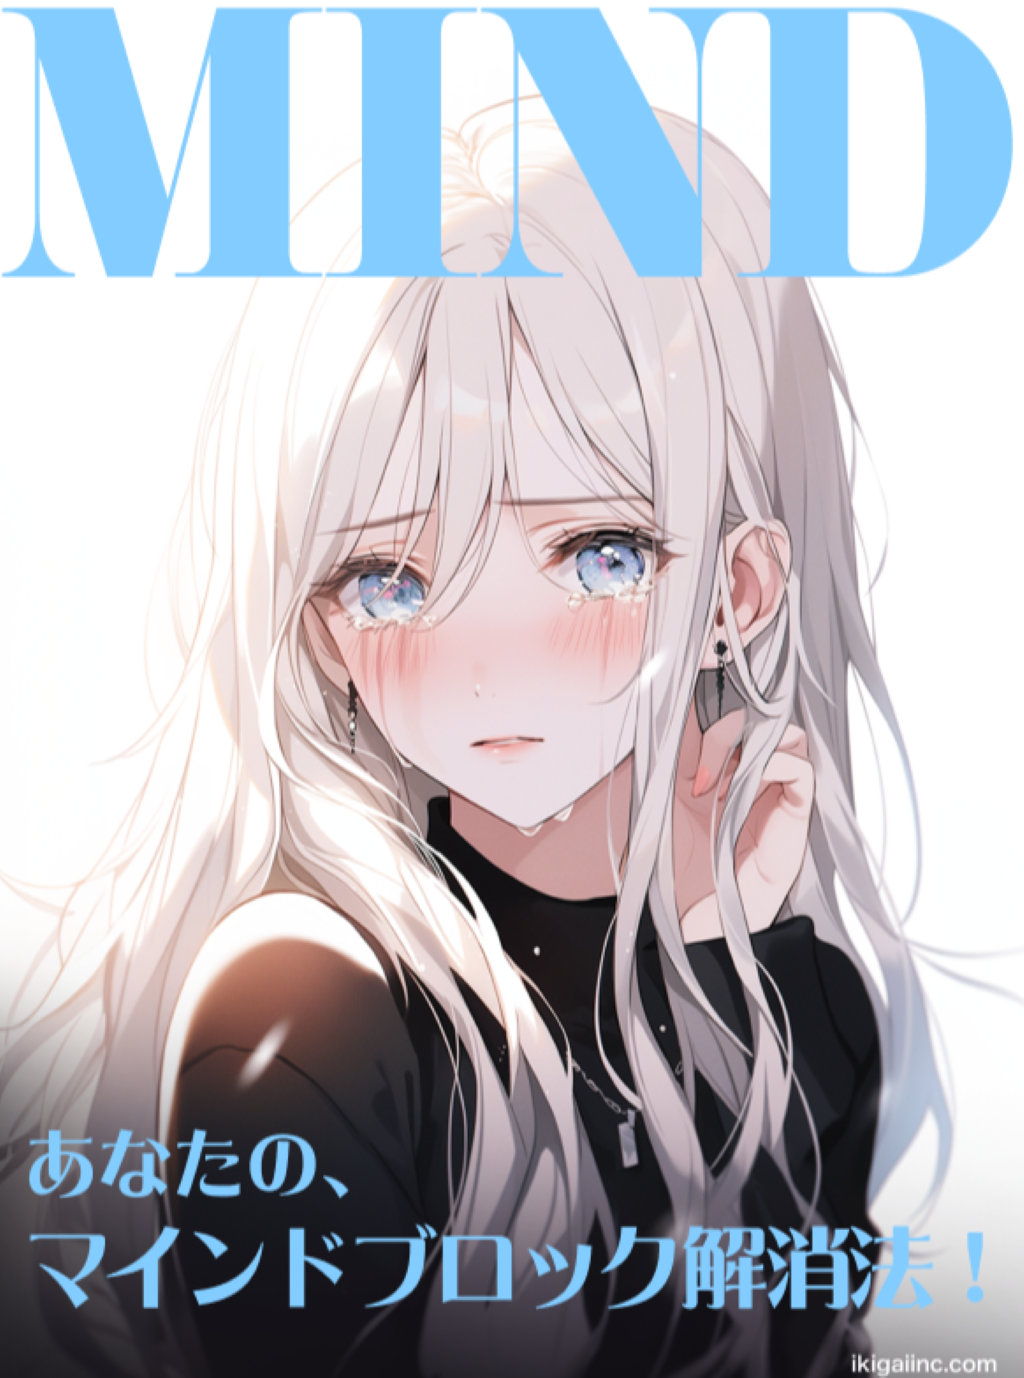
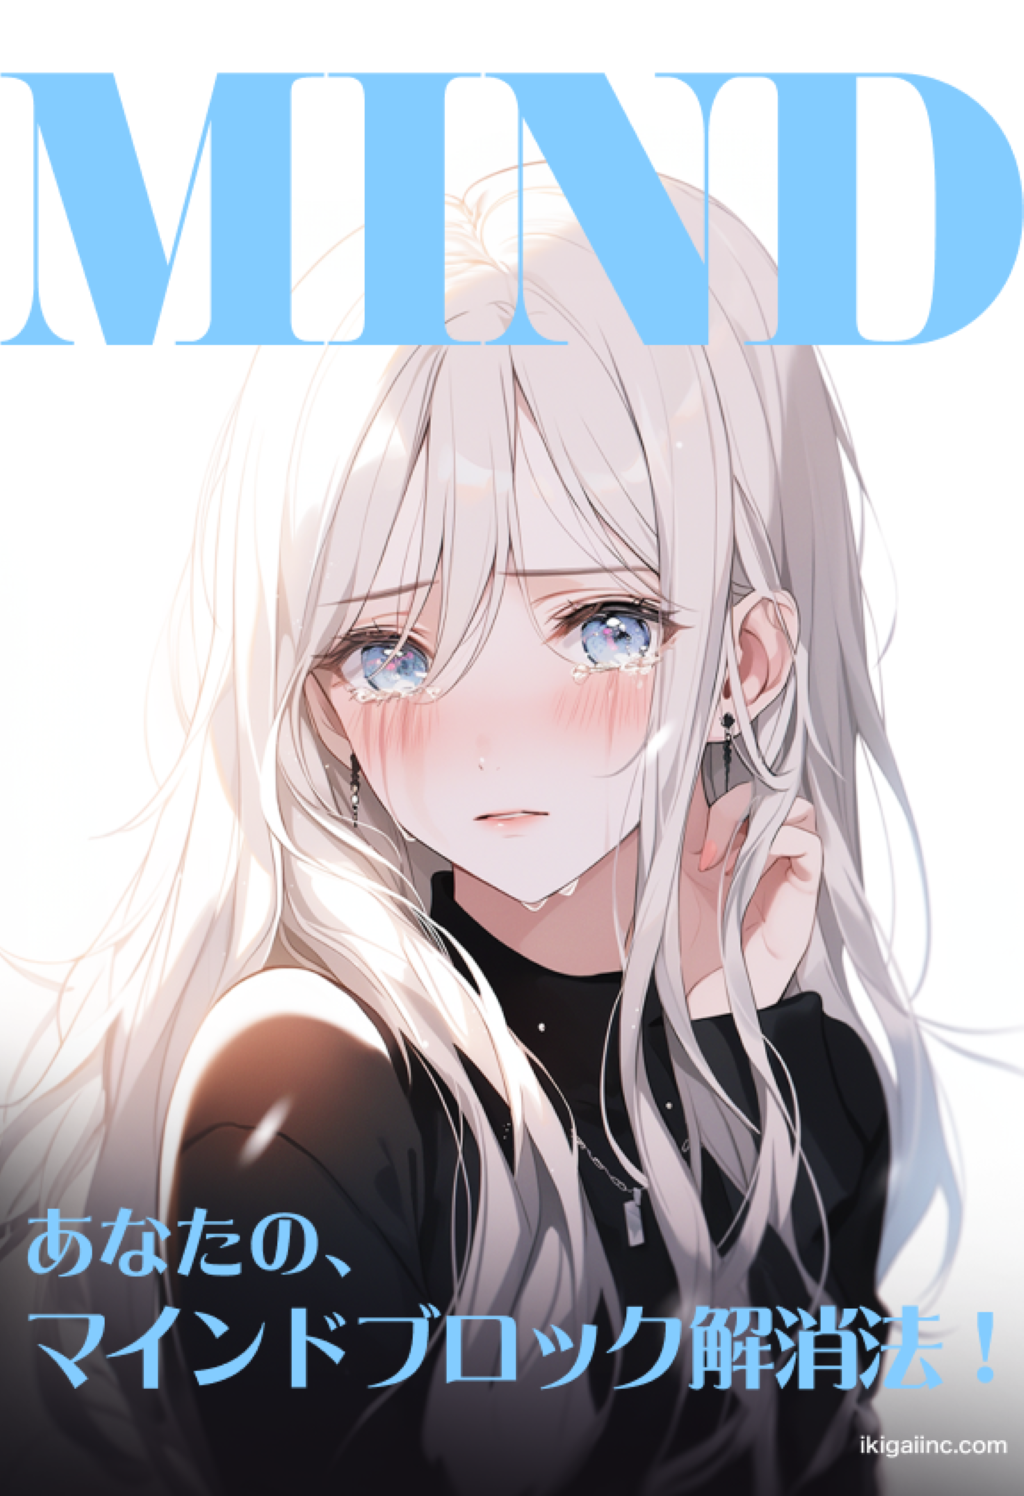
w

diff --git a/components/Firstpage.tsx b/components/Firstpage.tsx
@@ -14,7 +14,7 @@ const Firstpage: React.FC<FirstpageProps> = ({
 }) => {
   return (
     <div
-      className={` ${styles.fullHeightContainer} relative w-full  mx-auto overflow-hidden flex items-center  justify-start py-0 box-border  text-center text-lightskyblue  `}
+      className={` ${styles.fullHeightContainer} relative w-full  mx-auto overflow-hidden flex items-center  justify-start  box-border  text-center text-lightskyblue  `}
     >
       <div className="relative">
         <img
